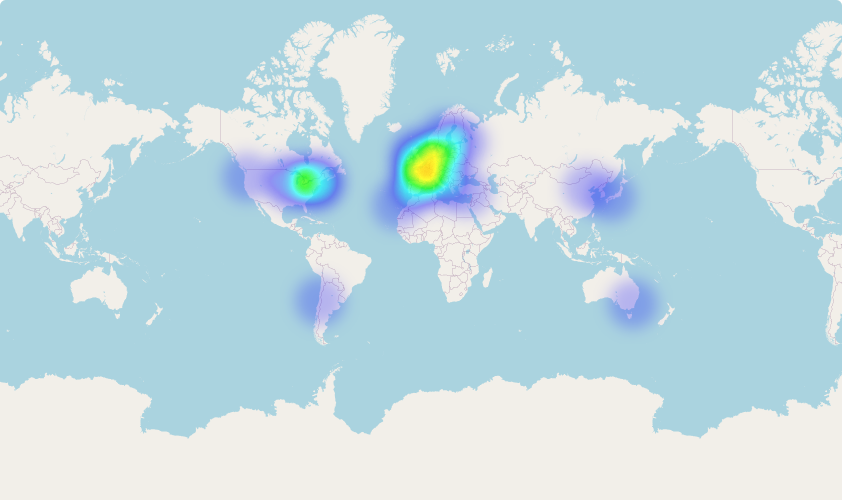
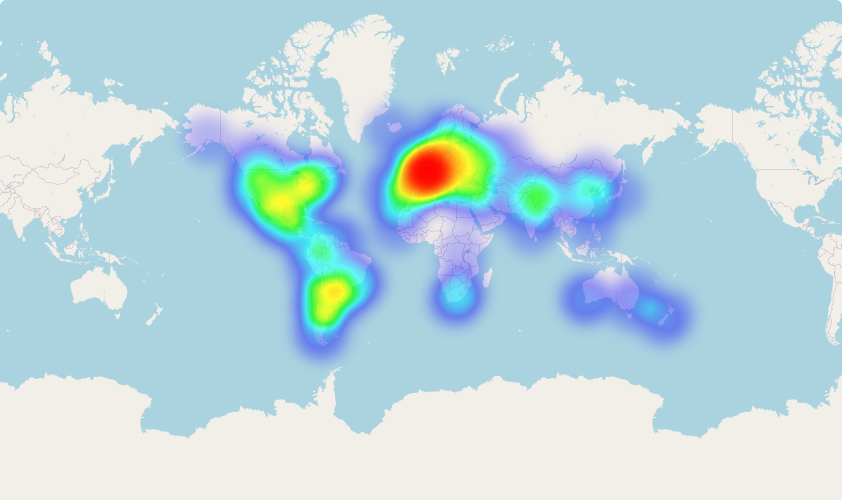
add amerique latine

Changed region(s): [[0.2162, 0.21, 0.7411, 0.75], [0.6485, 0.54, 0.8337, 0.72]]

diff --git a/app.py b/app.py
@@ -7,12 +7,27 @@ from pathlib import Path
 
 app = Flask(__name__, static_folder="static", template_folder="templates")
 
-plant_db = pd.read_csv("data/fiche_technique_v8.csv")
+plant_db = pd.read_csv("data/fiche_technique_v10.csv")
 
 def postprocess(code):
     if "_andalous" in code:
-        return code.split("_andalous")[0]
-    return code
+        return code.split("_andalous")[0], "Andalous"
+    elif "_ens" in code:
+        return code.split("_ens")[0], "ENS"
+    elif "_amerique" in code:
+        return code.split("_ens")[0], "Amerique Latine"
+    else:
+        return None, None
+
+def get_institution(name):
+    if "ENS" in name:
+        return "ENS"
+    elif "Amerique Latine" in name:
+        return "Amerique Latine"
+    elif "Andalous" in name:
+        return "Andalous"
+    else:
+        return None
 
 @app.route("/", methods=["GET"])
 def index():
@@ -20,8 +35,10 @@ def index():
 
 @app.route("/fiche/<code>")
 def fiche(code):
-    code = postprocess(code)
-    plant = plant_db[plant_db["Nom scientifique"] == code].iloc[0].to_dict()
+    code, institution = postprocess(code)
+    espece_db = plant_db[plant_db["Nom scientifique"] == code].copy()
+    espece_db["Institution"] = espece_db.apply(lambda x: get_institution(x), axis = 1)
+    plant = espece_db[espece_db["Institution"] == institution].iloc[0].to_dict()
     species_root_disk = Path(os.path.join('static', 'images', 'plantes', plant['Unnamed: 0']))
     species_root_relative_path = species_root_disk.relative_to("static")
     species_image_files = [
